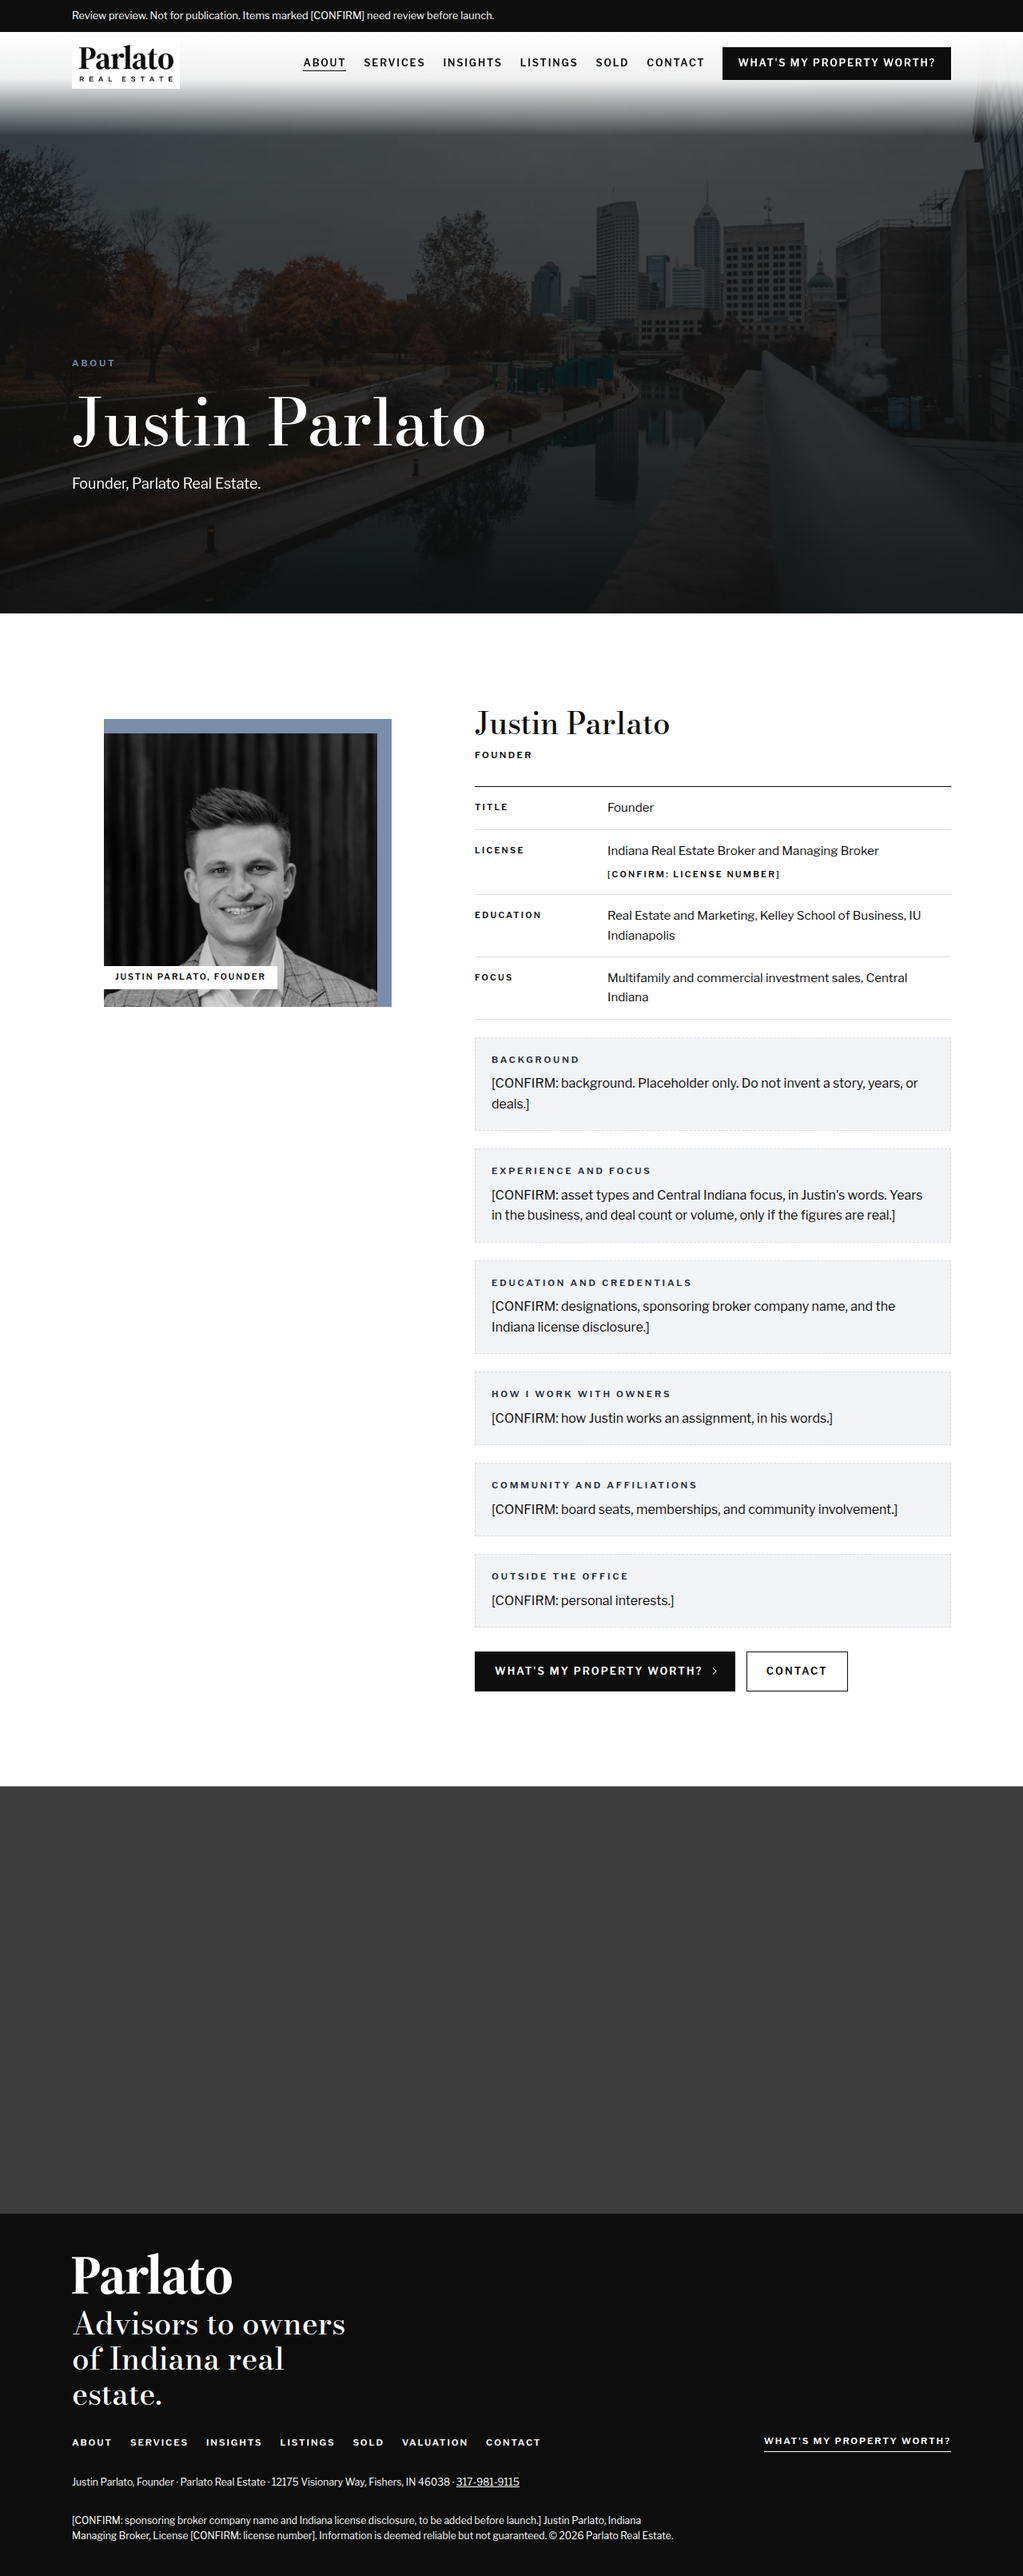
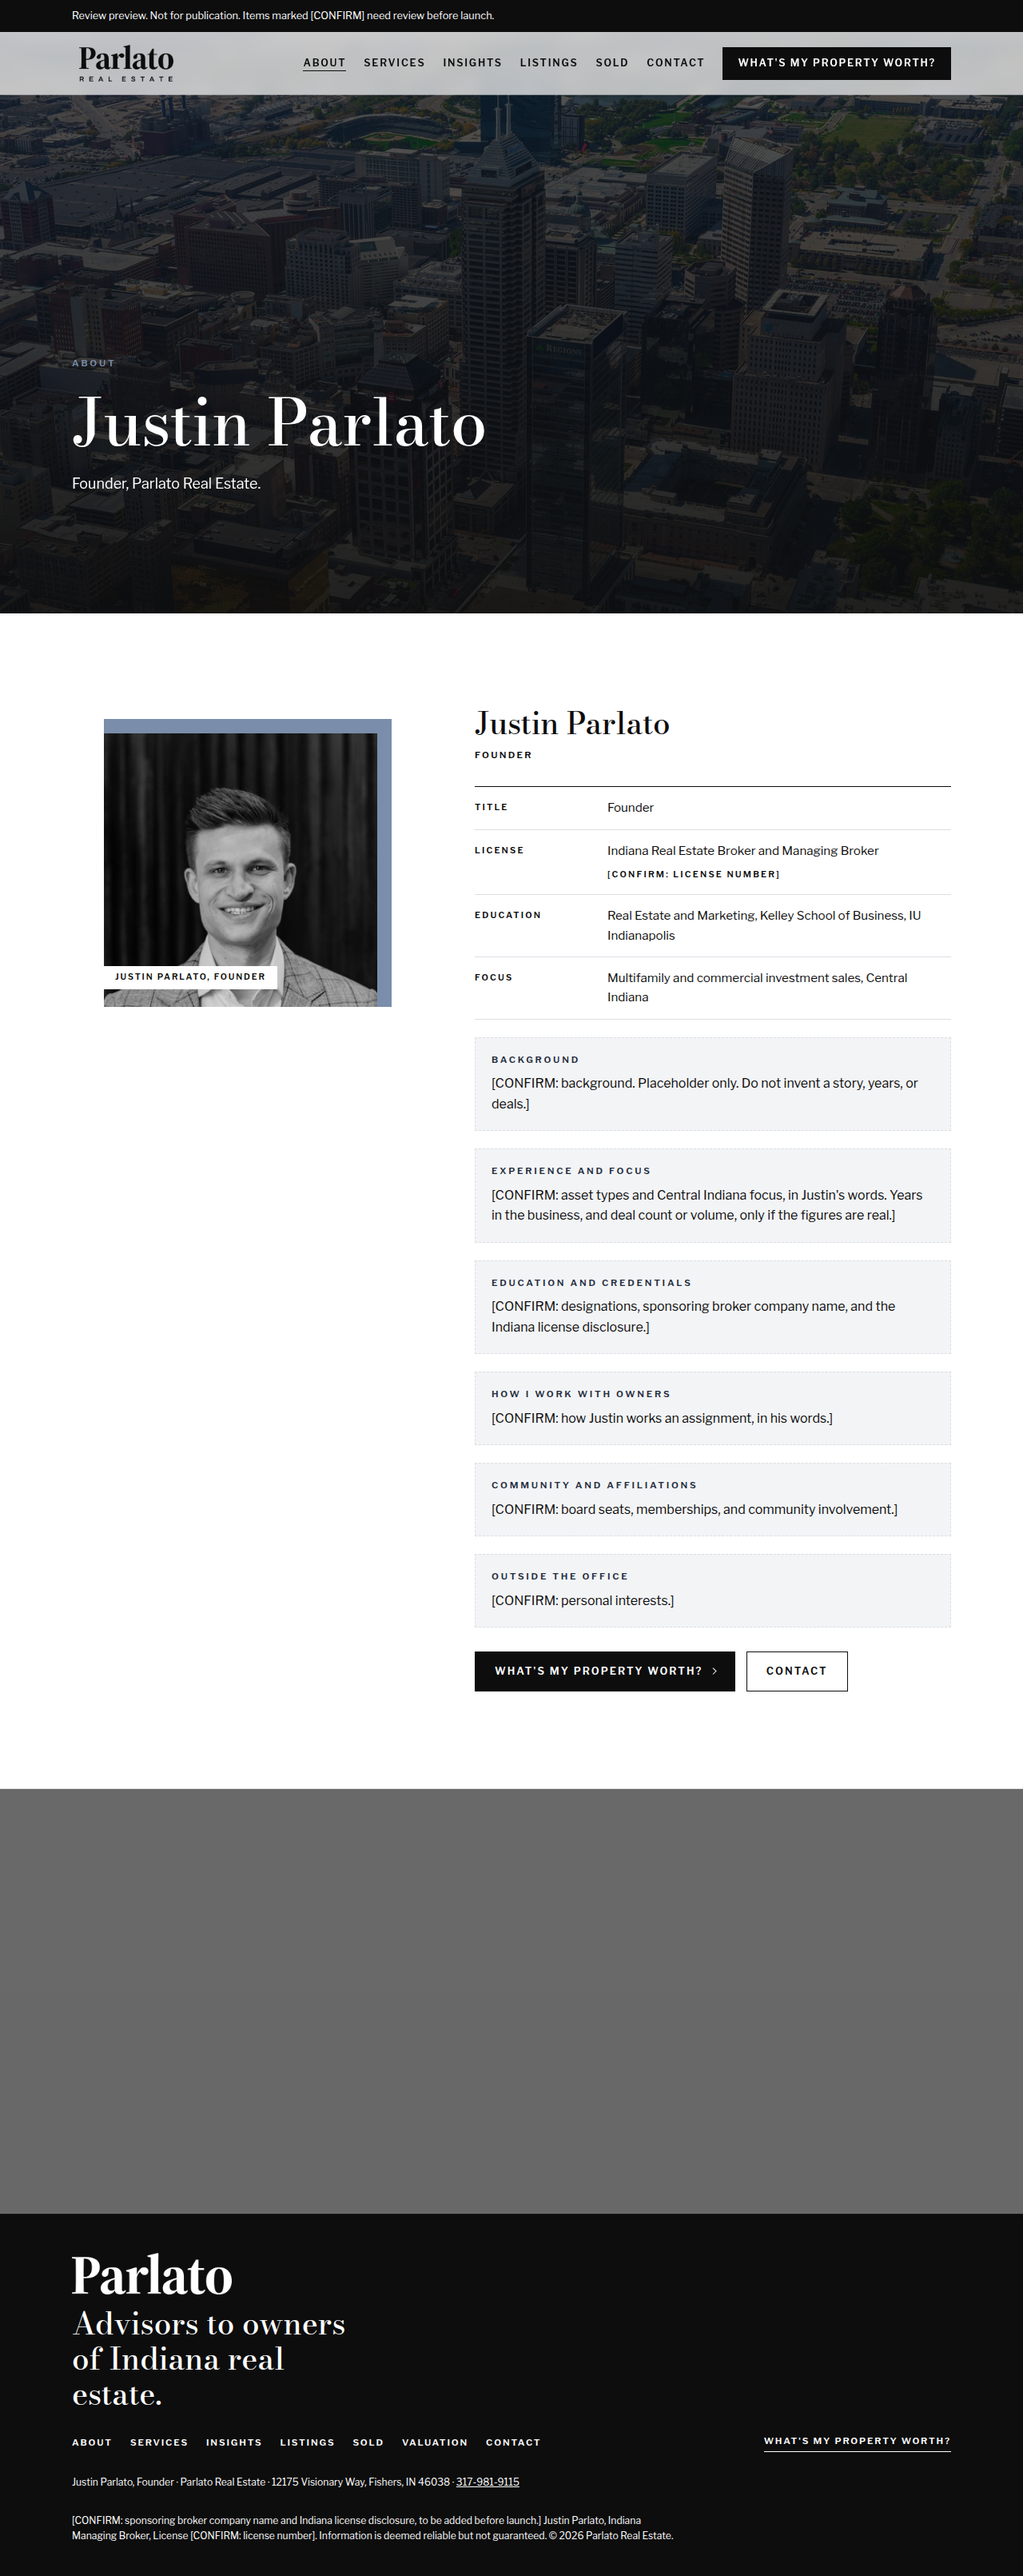
Make the header one translucent white bar.
Photo heroes sit under a 70 percent white bar with a light blur. After the hero scrolls away the bar goes to 90 percent so type underneath stays quiet. The mobile menu stays solid white.

diff --git a/css/styles.css b/css/styles.css
@@ -234,37 +234,29 @@ p { margin: 0; }
 }
 .band.ink .confirm, .hero .confirm, .foot .confirm { color: var(--white); }
 
-/* Header. Solid white, except over a photo hero, where it fades out. */
+/* Header. One translucent white bar, full width, over the page. */
 .site-head {
   position: sticky;
   top: env(safe-area-inset-top, 0px);
   z-index: 50;
   width: 100%;
-  background: #fff;
-  border-bottom: 1px solid #DCDEE3;
+  background: transparent;
+  border-bottom: 1px solid rgba(220, 222, 227, 0.6);
   overflow: visible;
 }
-body:has(main > section.hero-photo:first-of-type) .site-head {
-  background: transparent;
-  border-bottom-color: transparent;
-}
-body:has(main > section.hero-photo:first-of-type) .site-head::before {
+.site-head::before {
   content: "";
   position: absolute;
   z-index: -1;
-  left: 0;
-  right: 0;
-  top: 0;
-  height: calc(100% + 52px);
+  inset: 0;
+  background: rgba(255, 255, 255, 0.7);
+  -webkit-backdrop-filter: blur(10px);
+  backdrop-filter: blur(10px);
   pointer-events: none;
-  background: linear-gradient(to bottom, rgba(255, 255, 255, 1) 0%, rgba(255, 255, 255, 0.92) 45%, rgba(255, 255, 255, 0) 100%);
 }
-body:has(main > section.hero-photo:first-of-type) .site-head.is-solid {
-  background: #fff;
-  border-bottom-color: #DCDEE3;
-}
-body:has(main > section.hero-photo:first-of-type) .site-head.is-solid::before {
-  content: none;
+.site-head.is-busy::before { background: rgba(255, 255, 255, 0.9); }
+@supports not ((backdrop-filter: blur(10px)) or (-webkit-backdrop-filter: blur(10px))) {
+  .site-head::before { background: rgba(255, 255, 255, 0.9); }
 }
 .site-head .wrap {
   display: flex;
@@ -276,7 +268,7 @@ body:has(main > section.hero-photo:first-of-type) .site-head.is-solid::before {
 .logo { text-decoration: none; color: inherit; flex: 0 0 auto; }
 .logo-plate {
   display: block;
-  background: #fff;
+  background: transparent;
   padding: var(--logo-clear);
 }
 .logo img {
@@ -307,7 +299,7 @@ body:has(main > section.hero-photo:first-of-type) .site-head.is-solid::before {
   color: var(--black);
 }
 @media (max-width: 960px) {
-  .nav-toggle { display: block; background: #fff; color: var(--black); border-color: var(--black); }
+  .nav-toggle { display: block; background: transparent; color: var(--black); border-color: var(--black); }
   .nav {
     display: none;
     position: absolute;

diff --git a/js/main.js b/js/main.js
@@ -1,12 +1,14 @@
 (function () {
   var head = document.querySelector(".site-head");
-  var hero = document.querySelector("main > section.hero-photo");
-  if (head && hero && hero === document.querySelector("main > section")) {
+  if (head) {
+    var heroBand = document.querySelector("main > section.hero-photo, main > section.page-hero");
     function paintHead() {
-      head.classList.toggle("is-solid", window.scrollY > 8);
+      var past = heroBand ? heroBand.offsetTop + heroBand.offsetHeight - head.offsetHeight : 0;
+      head.classList.toggle("is-busy", past > 0 && window.scrollY > past);
     }
     paintHead();
     window.addEventListener("scroll", paintHead, { passive: true });
+    window.addEventListener("resize", paintHead);
   }
 
   document.documentElement.classList.add("js");

diff --git a/CHANGES.md b/CHANGES.md
@@ -13,7 +13,7 @@ The site is now separate pages. Navigation order is About, Services, Insights, L
 - About is a founder layout (centered heading, portrait beside the name, role line, credential rows). Longer bio sections are placeholder blocks, not new copy.
 - Listings uses one data file, a grayscale Leaflet map (OpenStreetMap raster tiles, no WebGL), and filterable cards. The map is the large sticky pane. The only record is the illustrative Riverbend Commons sample, and its price is shown as "Price: sample" so the figure is not read as a live asking price. Sold is an empty map plus an empty table.
 - The home hero still includes the flagged line "A founder on every deal." It is kept on purpose and listed under Claims flagged for verification.
-- On a page with a photo hero, the header overlays the photograph and fades from solid white at the top to clear at the bottom. After a scroll it becomes solid white with a Rule Grey edge. Pages without a photo hero keep the solid white bar. The logo and navigation stay black.
+- The header is one translucent white bar, rgba(255, 255, 255, 0.7), with a 10px blur and a faint Rule Grey edge. On a photo hero the photograph starts under that bar. After a scroll the bar goes to 0.9 so type underneath stays quiet. The open mobile menu stays solid white. The logo and navigation stay black.
 - The home line "Commercial real estate brokerage, Central Indiana" is 18px on desktop and 15px on a phone, Libre Franklin 600, white, with a darker lower-left scrim and a soft shadow.
 - Design re-audit is in `DESIGN-AUDIT.md`. About, Contact, and Valuation open on a short photograph. Listing cards are photo first. An empty Sold page does not draw a map or a building photograph. The Services page no longer repeats the same photograph in one view.
 - Photo spots stay marked [PLACEHOLDER PHOTO: replace with Parlato photography] and are credited in `images/CREDITS.md`. The home hero, the downtown banner, and the grid banner are Joseph Surak's own Indianapolis aerials, not stock. The grid crop keeps the street grid and keeps the stadium and team signage from dominating. Monument Circle and the other tiles stay licensed stand-ins. The headshot stays grayscale.
